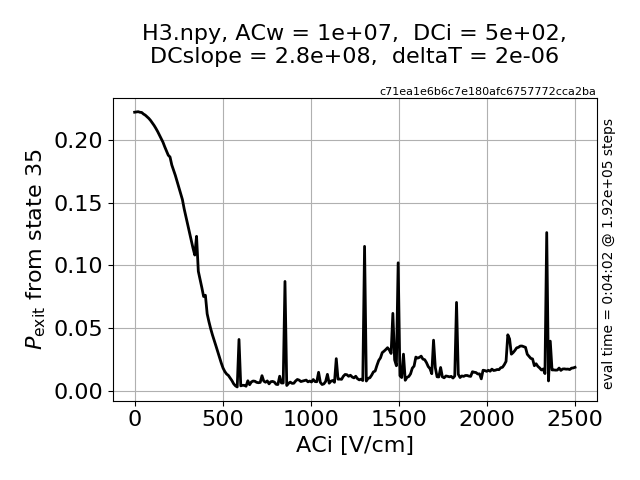
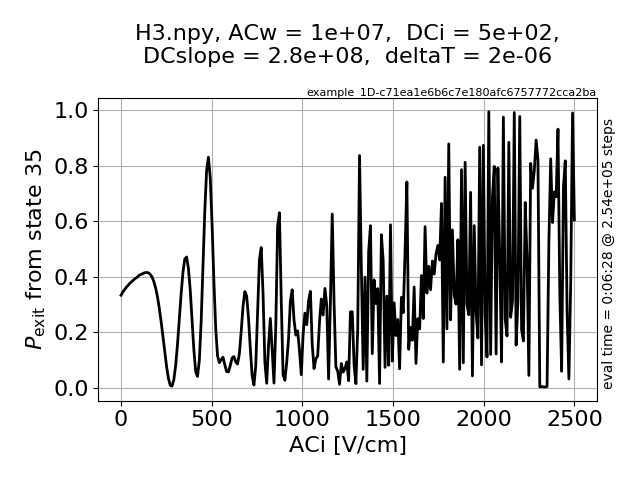
my changes

diff --git a/src/main.py b/src/main.py
@@ -41,14 +41,14 @@ def run_scan(val_range, H_fname, state_idx, scan_param, field_str, fixed_params,
         U = np.eye(H_fn([[0,0,0,0,0,0]]).shape[-1])
         t_batches, dt_batches = time_mesh(phys_params)
         for t, dt in zip(t_batches, dt_batches):
-            field = np.transpose([eval_num(x,{**phys_params,'t':t}) for x in field_str])
-            dU = expm_arr(-1j * 2*np.pi * dt[:,np.newaxis,np.newaxis] * H_fn(field), s)
+            H = H_fn(field(field_str, phys_params, t))
+            dU = expm_arr(-1j * 2*np.pi * dt[:,np.newaxis,np.newaxis] * H, s)
             U = U @ reduce(np.matmul, dU)
 
         # evaluate transition probability
-        psi_i = np.linalg.eigh(H_fn([field[0]])[0])[1][state_idx]
-        psi_f = np.linalg.eigh(H_fn([field[-1]])[0])[1][state_idx]
-        exit_probs.append(1 - np.abs(psi_f @ U @ psi_i)**2)
+        psi_i = eig_state(H_fn, field_str, phys_params, t_batches[-1][-1],   state_idx)
+        psi_f = eig_state(H_fn, field_str, phys_params, t_batches[-1][-1], state_idx)
+        exit_probs.append(1 - np.abs(psi_f.conj() @ U @ psi_i)**2)
 
     return exit_probs
 
@@ -139,6 +139,16 @@ def time_mesh(phys_params):
     dt_batches = np.array_split(np.diff(t), num_batches)
 
     return t_batches, dt_batches
+
+
+def field(field_str, phys_params, t_arr):
+    """Return list of fields given a list of times."""
+    return np.transpose([eval_num(x,{**phys_params,'t':t_arr}) for x in field_str])
+
+
+def eig_state(H_fn, field_str, phys_params, t, state_idx):
+    """Return eigenstate at a given time."""
+    return np.linalg.eigh(H_fn(field(field_str,phys_params,np.array([t])))[0])[1][:,state_idx]
 
 
 def estimate_runtime(val_range, fixed_params, time_params, scan_param,
